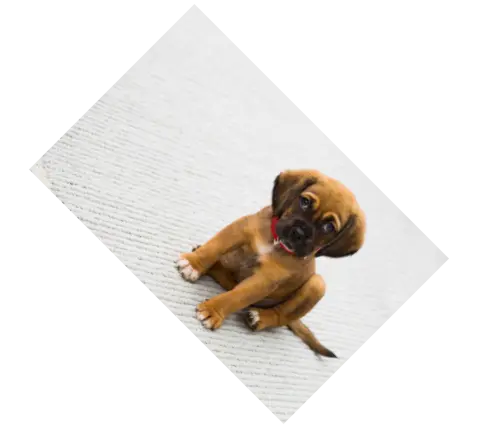
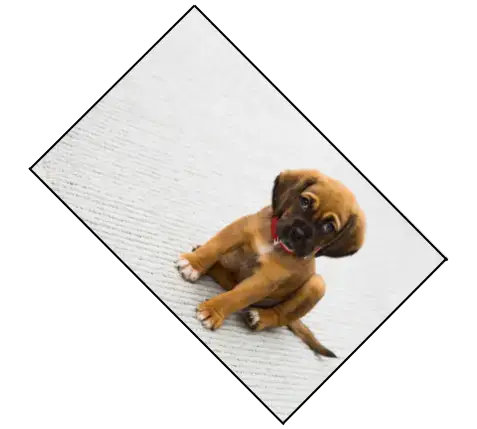
cambio de color y corrección de footer

diff --git a/index.html b/index.html
@@ -6,17 +6,17 @@
         <title>Imágenes en HTML5</title>
     </head>
     <body style="background-color: darkolivegreen">
-        <header style="background-color: lightgreen; border: 2px solid; text-align: center; margin: 1em">
+        <header style="background-color: rgb(144, 196, 238); border: 2px solid; text-align: center; margin: 1em">
             <h1>Ejercicios de edición de imágenes</h1>
         </header>
         <!-- Menú de navegación del sitio -->
         <nav></nav>
 
-        <main style="background-color: lightgreen; border: 2px solid; margin: 1em">
+        <main style="background-color: rgb(144, 196, 238); border: 2px solid; margin: 1em">
             <article>
                 <h2 style="text-align: center">Ejercicio de prueba:</h2>
-                <figure style="border: 2px solid; text-align: center; padding: 1em">
-                    <img src="https://cdn.pixabay.com/photo/2024/07/21/11/36/dachshund-8910099_1280.jpg" alt="cachorro de perro salchicha en el campo" width="600" />
+                <figure style="text-align: center; padding: 1em">
+                    <img src="https://cdn.pixabay.com/photo/2024/07/21/11/36/dachshund-8910099_1280.jpg" alt="cachorro de perro salchicha en el campo" width="600" style="border: 2px solid" />
 
                     <figcaption>
                         <span>Imagen de </span>
@@ -33,7 +33,7 @@
 
                 <h3>Imagen original:</h3>
                 <figure style="text-align: center">
-                    <img src="assets/cachorrooriginal.webp" alt="Cachorro con mirada triste" title="Imagen de cachorro de Pexels en Pixabay" width="600" />
+                    <img src="assets/cachorrooriginal.webp" alt="Cachorro con mirada triste" title="Imagen de cachorro de Pexels en Pixabay" width="600" style="border: 2px solid" />
 
                     <figcaption><span>Imagen original </span><a href="https://pixabay.com/es/users/pexels-2286921/?utm_source=link-attribution&utm_medium=referral&utm_campaign=image&utm_content=1284307" target="_blank">Pexels</a> <span>en </span><a href="https://pixabay.com/service/license-summary/" target="_blank">Pixabay</a></figcaption>
                 </figure>
@@ -53,7 +53,7 @@
                 <p>Reduzca la resolución de la imagen a 360px de ancho sin perder la proporción de la imagen con <a href="https://www.photopea.com/">Photopea.</a></p>
 
                 <figure style="text-align: center">
-                    <img src="assets/cachorro360.webp" alt="fotografía de un cachorro de perro raza boxer con mirada triste" title="Imagen de cachorro de Pexels en Pixabay" />
+                    <img src="assets/cachorro360.webp" alt="fotografía de un cachorro de perro raza boxer con mirada triste" title="Imagen de cachorro de Pexels en Pixabay" style="border: 2px solid" />
                     <figcaption><span>Imagen reducida a 360px de </span><a href="https://pixabay.com/es/users/pexels-2286921/?utm_source=link-attribution&utm_medium=referral&utm_campaign=image&utm_content=1284307" target="_blank">Pexels</a> <span>en </span><a href="https://pixabay.com/service/license-summary/" target="_blank">Pixabay</a></figcaption>
                 </figure>
 
@@ -69,8 +69,8 @@
         </main>
 
         <footer>
+            <h2>Información de contacto:</h2>
             <address>
-                <h2>Información de contacto:</h2>
                 <ul>
                     <li><strong>Teléfono de contacto:</strong><a href="tel:+34641394173">641 394 173</a></li>
                     <li><strong>Correo electrónico:</strong><a href="mailto:pintografica@protonmail.com">pintografica@protonmail.com</a></li>
